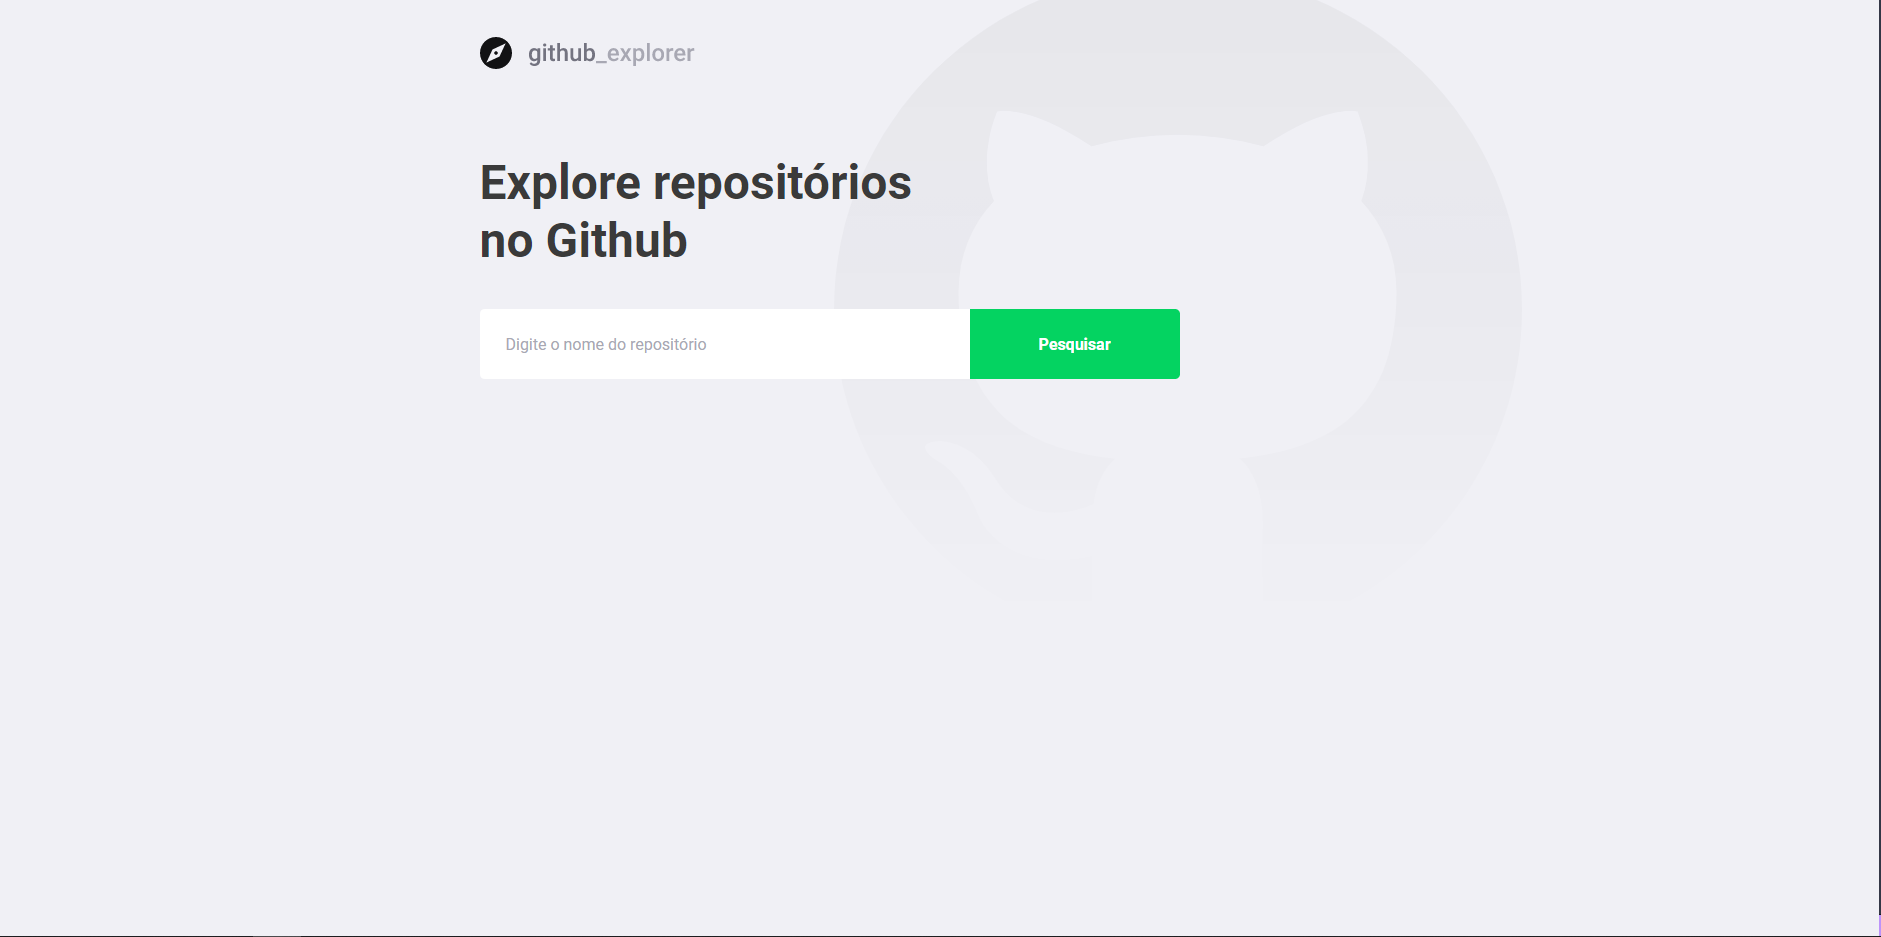
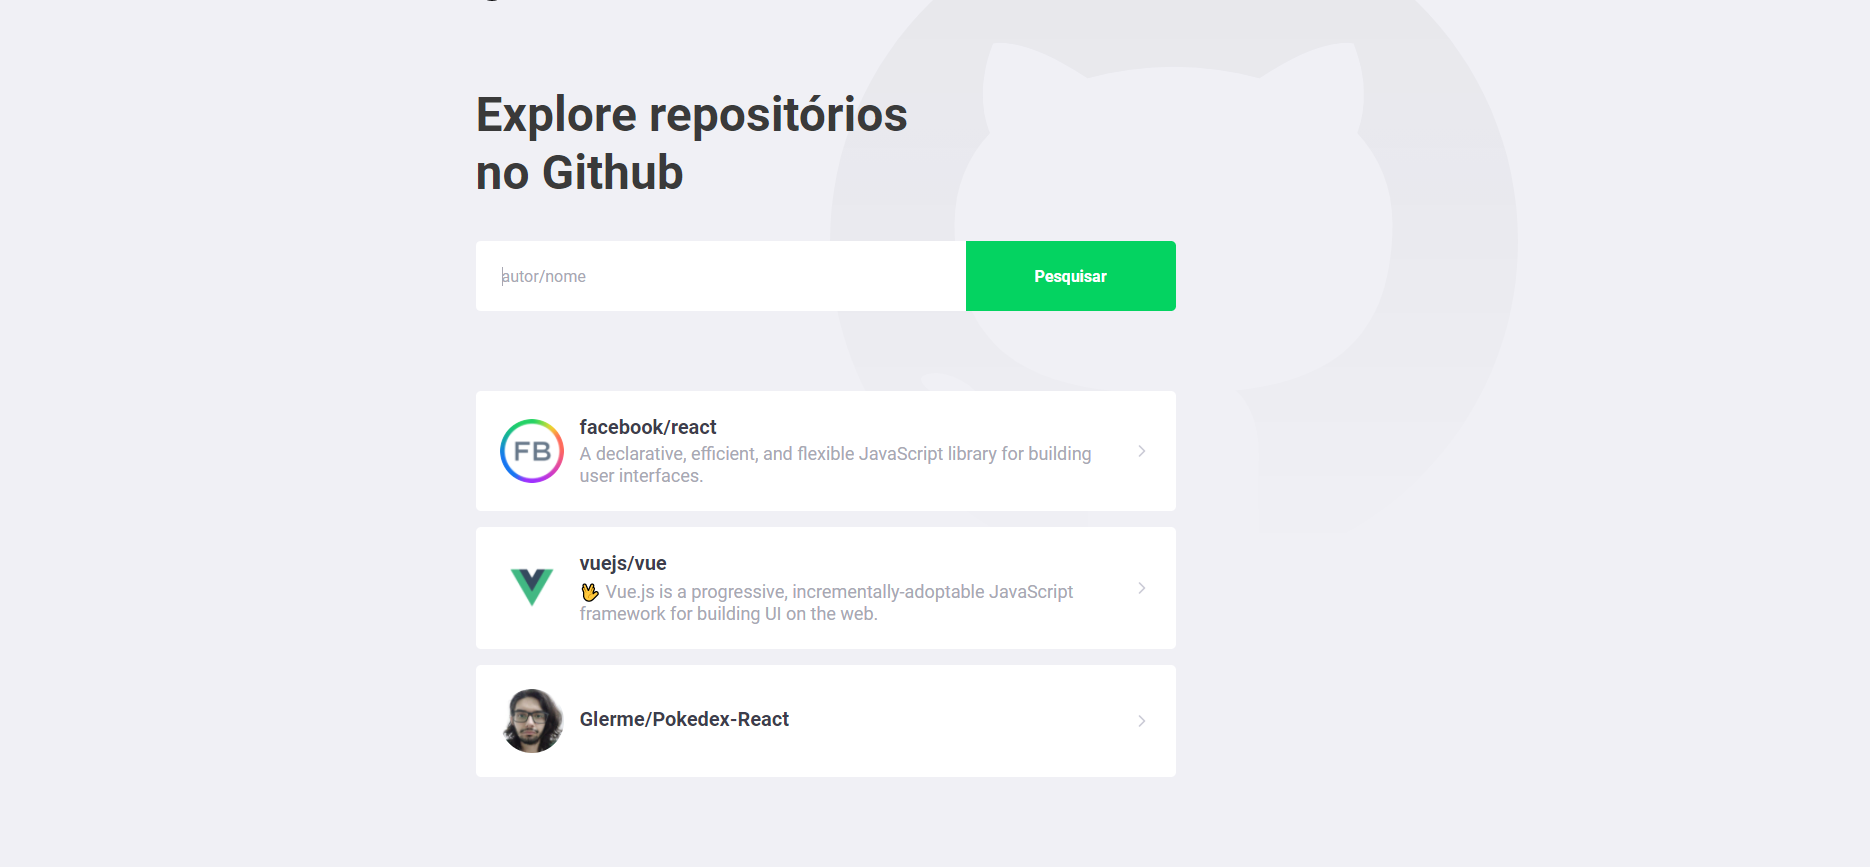
Ajustes

diff --git a/src/pages/Dashboard/index.tsx b/src/pages/Dashboard/index.tsx
@@ -68,7 +68,7 @@ const Dashboard: React.FC = () => {
         <input
           value={newRepo}
           onChange={({ target }) => setNewRepo(target.value)}
-          placeholder="Digite o nome do repositório"
+          placeholder="autor/nome"
         ></input>
         <button>Pesquisar</button>
       </Form>
@@ -77,7 +77,10 @@ const Dashboard: React.FC = () => {
 
       <Repositories>
         {repositories.map((repository) => (
-          <Link key={repository.full_name} to={`/repositories/${repository.full_name}`}>
+          <Link
+            key={repository.full_name}
+            to={`/repositories/${repository.full_name}`}
+          >
             <img
               src={repository.owner.avatar_url}
               alt={repository.owner.login}
